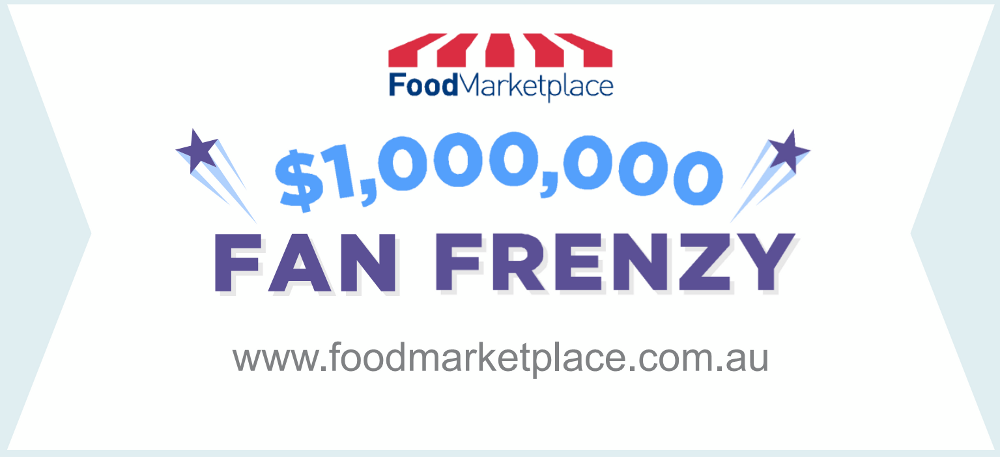
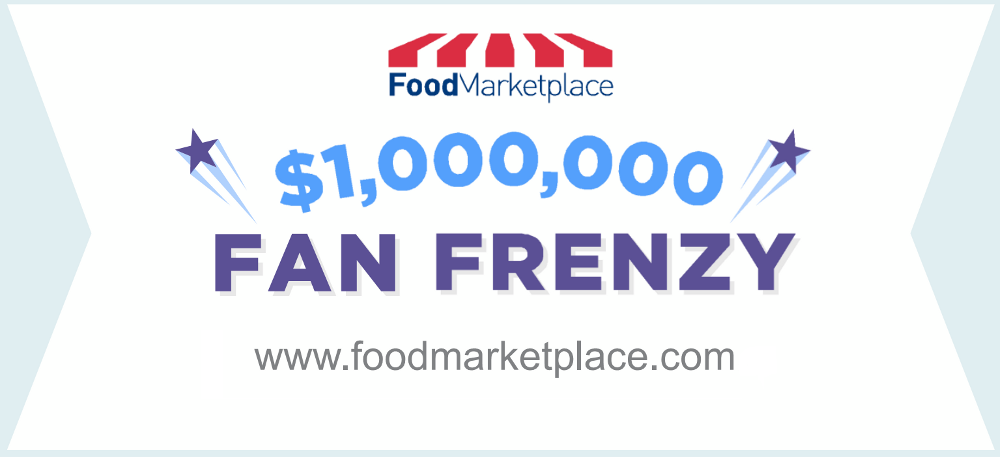
flyer

Changed region(s): [[0.217, 0.7352, 0.775, 0.8271]]

diff --git a/fanpromo/check_flyer.php b/fanpromo/check_flyer.php
@@ -30,8 +30,10 @@ $code = getCodeByStoreId($dbcon, $store_id);
 
 if (LANGCODE == "en-au"){
 	$url = $retailer_info["bu_urlstring"].".foodmarketplace.com.au";
+	$image_name = "flyer_au.png";
 }else{
 	$url = $retailer_info["bu_urlstring"].".foodmarketplace.com";
+	$image_name = "flyer_us.png";
 }
 
 
